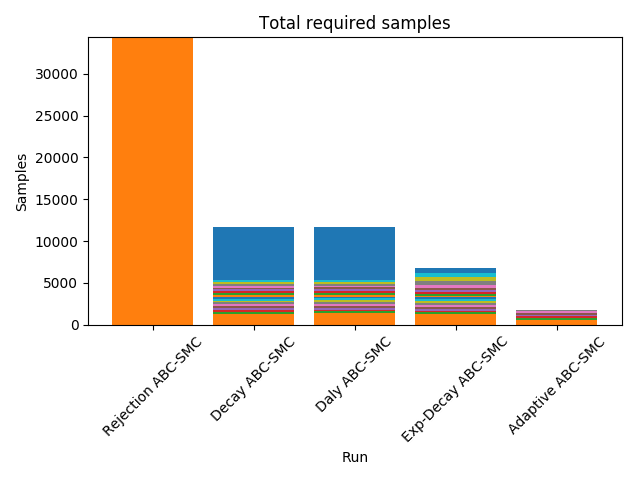
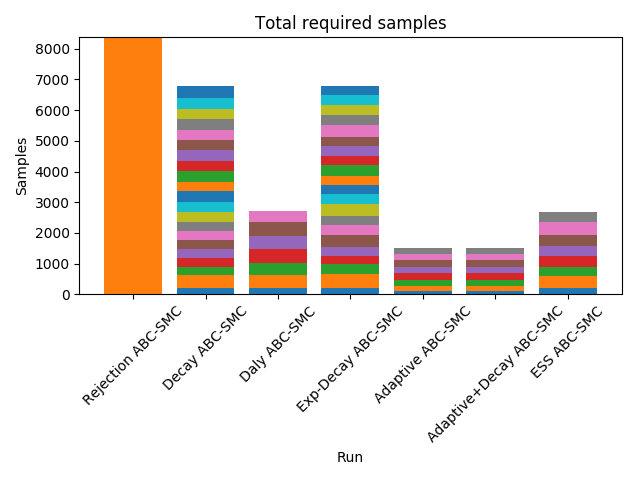
restructure

diff --git a/compare_acceptors/methods.py b/compare_acceptors/methods.py
@@ -1,0 +1,48 @@
+"""
+Methods to use
+--------------
+
+classical Daly: epsp0 fixed,  eps0 = 1000, Imax = 5e6, terminate if kt <= 0.001 or eps1 = 1
+improved Daly
+acceptance rate
+decay
+something else
+and combinations
+
+
+
+for each model: specific 
+"""
+
+import pyabc
+
+
+class AcceptorStruct(dict):
+
+    def __init__(method, n_pop, description, noisy):
+        super().__init__(method=method, n_pop=n_pop, description=description, noisy=noisy)
+
+class AcceptorFactory.
+
+    def __init__():
+        self.n_acc = 6
+
+    def __len__(self):
+        return self.n_acc
+
+    def get(self, i):
+        n_pop = None
+        if i == 0:
+            method = pyabc.StochasticAcceptor(
+                temp_schemes=[pyabc.acceptor.scheme_acceptance_rate])
+            descr = "Acceptance rate"
+        elif i == 1:
+            method = pyabc.StochasticAcceptor(
+                temp_schemes=[pyabc.acceptor.scheme_acceptance_rate, pyabc.acceptor.scheme_decay])
+            descr = "Acceptance rate + Decay"
+        elif i == 2:
+            method = pyabc.StochasticAcceptor(
+                temp_schemes=[pyabc.acceptor.scheme_daly])
+            descr = "Daly"
+        return AcceptorStruct(method=method,n_pop=n_pop, descr=descr)
+    

diff --git a/compare_acceptors/script_run.py b/compare_acceptors/script_run.py
@@ -1,0 +1,29 @@
+"""
+Compare all the different approaches of stochastic acceptance kernels
+(Dalyy, Acceptance rate, Decay, ESS). Compare this to a setting with
+a deterministic acceptance step but a noisy model output.
+
+Note: It is problematic how to best choose termination criteria (minimal
+acceptance rate, iteration, target epsilon variance).
+"""
+
+
+from settings import n_rep, n_acc, n_pop
+from models import Gaussian1DModel
+import pyabc
+
+# generate models
+models = [Gaussian1DModel()]
+
+# run
+
+for model in models:
+    for acceptor, ,  in acceptor_factory.create():
+        for i_rep in range(n_rep):
+            id_ = f"{n_rep}_{n_acc}_{n_pop}_{i_rep}" 
+            abc = pyabc.ABCSMC()
+            y_obs = model.generate_data()
+            model.save_data(y_obs, id_)
+            db_name = model.get_history_identifier(id_)
+            abc.new()
+            abc.run(n_pop)

diff --git a/infer_exactly/script_run.py b/infer_exactly/script_run.py
@@ -1,0 +1,10 @@
+"""
+Illustrate the problem arising when not accounting for measurement noise.
+Possible test cases: A deterministic model (-> ML estimator weighted by the
+prior), and a simple SSA model (-> overestimation of parameters promoting
+noise).
+
+This means using a non-noisy model together with a deterministic acceptor,
+and comparing that to the true analysis performed using either a noisy model,
+or a stochastic acceptor.
+"""

diff --git a/compare_models/script_run.py b/compare_models/script_run.py
@@ -1,0 +1,7 @@
+"""
+Look at two SSA models of a chemical reaction, and use the most adequate
+stochastica acceptance kernel method to derive model probabilities. Compare
+this to a run containing both models in one analysis.
+
+Do this n_rep times to get average behavior of the methods.
+"""

diff --git a/estimare_noise_parameters/script_run.py b/estimare_noise_parameters/script_run.py
@@ -1,0 +1,6 @@
+"""
+Show that the approach can also be used to estimate noise parameters
+like variances, which are often unknown. For the analysis, both a noisy
+model output, and a stochastic acceptor can be employed to get correct
+estimates.
+"""

diff --git a/model/gaussian.py b/model/gaussian.py
@@ -9,7 +9,7 @@ class Gaussian1DModel(Model):
         self.prior_ub = prior_ub
         self.noise_std = noise_std
         self.noise_model = np.random.randn
-    
+ 
     @property
     def p_true(self):
         return {'p0': 2.5}
